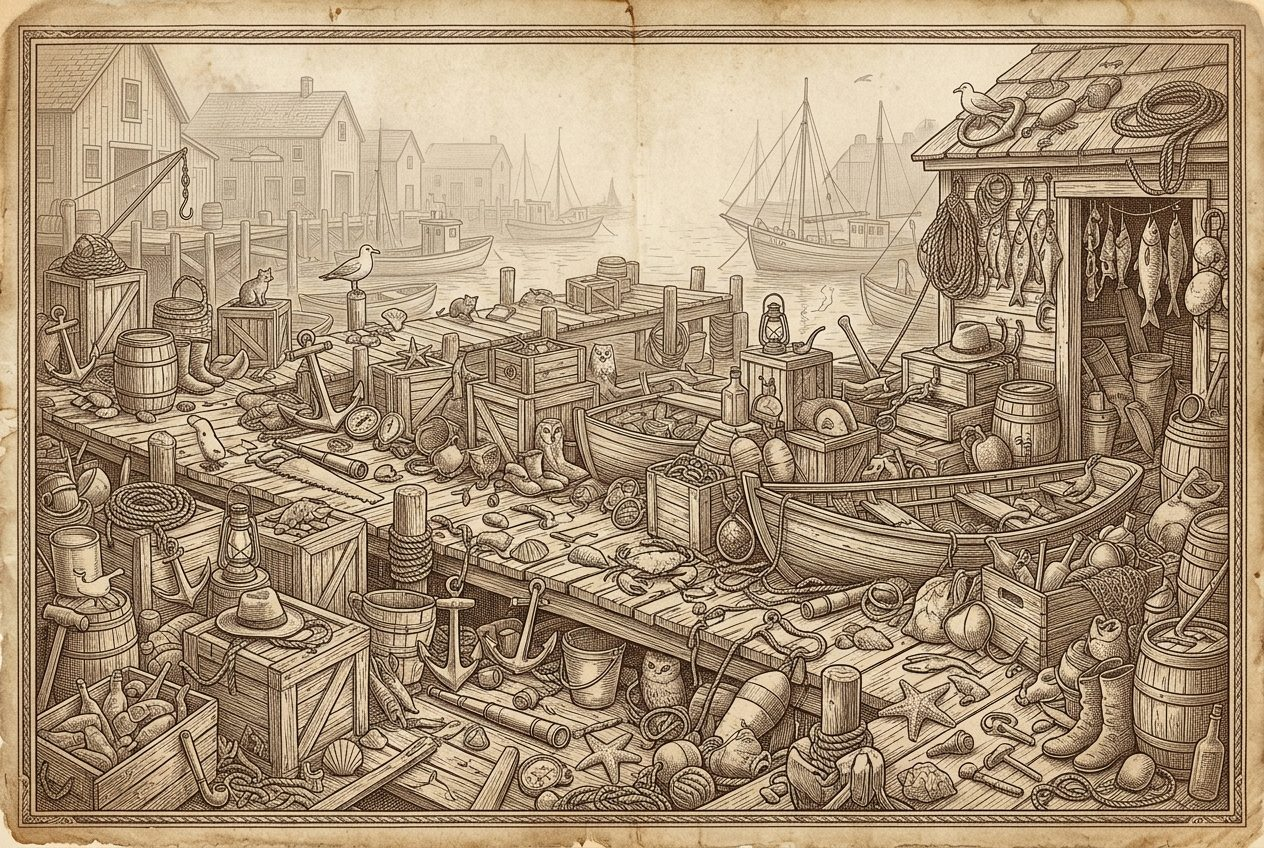
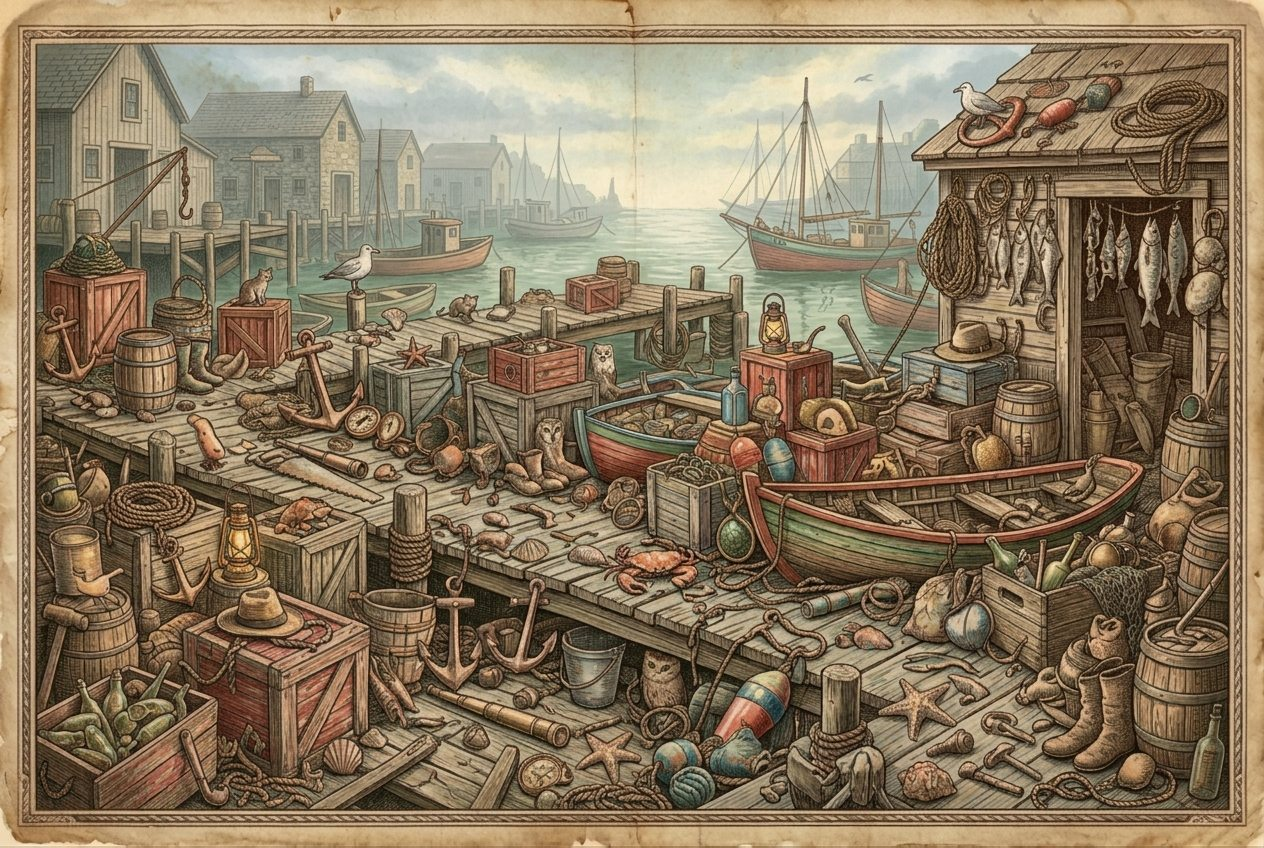
ver 1.66: the seek scenes in full colour
The six engraved seek pictures are coloured (Gemini, colour only), each
checked against the recorded item positions; a signature the colouring added
to the backstage's margin is taken out. A found item now gets a gold ring
and a soft glow instead of a watercolour wash, and the card's sprite is no
longer inked over the painted scene. Searches under way keep their lists.

diff --git a/index.html b/index.html
@@ -1648,7 +1648,7 @@ function layoutHidden(s, th) {
   if (all && !chosen.includes(all)) chosen[chosen.length - 1] = all;
   const T = chosen.map((it, n) => {
     const at = it.at.map(([x, y, r]) => ({ x: x * k + ox, y: y * k + oy, s: r * k / .55, src: [x, y, r] }));
-    return Object.assign({ t: n, e: it.id, ja: it.ja, at, all: it === all }, at[0]);
+    return Object.assign({ t: n, e: it.id, ja: it.ja, at, all: it === all, painted: true }, at[0]);
   });
   return { seed: s.seed, th, items: [], T, hidden: true };
 }
@@ -2948,18 +2948,21 @@ function drawItem(g, it) {
 }
 // A found item is coloured in with a watercolour wash, then its lines are re-inked on top.
 function drawFound(g, t) {
-  const col = WASH[(t.e.length * 7 + t.e.charCodeAt(0)) % WASH.length];
+  // The scenes are in full colour: a found thing gets a soft golden glow and a gold ring painted around it.
   const r = Math.max(30, t.s * .5);
   g.save();
-  g.globalCompositeOperation = 'multiply';
-  const gr = g.createRadialGradient(t.x, t.y, 0, t.x, t.y, r);
-  gr.addColorStop(0, col + '.8)');
-  gr.addColorStop(.65, col + '.55)');
-  gr.addColorStop(1, col + '0)');
+  const gr = g.createRadialGradient(t.x, t.y, r * .45, t.x, t.y, r * 1.15);
+  gr.addColorStop(0, 'rgba(255,214,120,0)');
+  gr.addColorStop(.7, 'rgba(255,214,120,.28)');
+  gr.addColorStop(1, 'rgba(255,214,120,0)');
   g.fillStyle = gr;
-  g.beginPath(); g.arc(t.x, t.y, r, 0, Math.PI * 2); g.fill();
+  g.beginPath(); g.arc(t.x, t.y, r * 1.15, 0, Math.PI * 2); g.fill();
+  g.lineWidth = Math.max(4, r * .09);
+  g.strokeStyle = 'rgba(40,24,6,.55)'; g.beginPath(); g.arc(t.x, t.y, r + g.lineWidth * .6, 0, Math.PI * 2); g.stroke();
+  g.strokeStyle = '#f0c860'; g.beginPath(); g.arc(t.x, t.y, r, 0, Math.PI * 2); g.stroke();
   g.restore();
-  drawItem(g, Object.assign({}, t, { a: 1 }));
+  // the painted scenes already hold the thing itself; re-inking the card's sprite on top would only blot it
+  if (!t.painted) drawItem(g, Object.assign({}, t, { a: 1 }));
 }
 
 let scn = null;
@@ -2972,7 +2975,7 @@ async function renderScene() {
   const ids = [...new Set(L.items.map(it => it.e))];
   let bg;
   try {
-    [bg] = await Promise.all([loadImg(`assets/${L.hidden ? L.th.hs : L.th.bg}.jpg`), ...ids.map(id => loadImg(findSrc(id)).then(im => { sprites[id] = im; }))]);
+    [bg] = await Promise.all([loadImg(`assets/${L.hidden ? L.th.hs : L.th.bg}.jpg?c=2`), ...ids.map(id => loadImg(findSrc(id)).then(im => { sprites[id] = im; }))]);
   } catch (e) {
     $('sload').textContent = '画像を読み込めませんでした。通信状態を確認して、もう一度開いてください。';
     return;
@@ -4099,7 +4102,7 @@ function hideTitle() {
   t.classList.add('gone');
   setTimeout(() => { t.hidden = true; }, 600);
 }
-const APP_VERSION = 'ver 1.65';   // shown on the title screen; bump with each release
+const APP_VERSION = 'ver 1.66';   // shown on the title screen; bump with each release
 function showTitle(hasSave) {
   $('tver').textContent = APP_VERSION;
   const t = $('title');

diff --git a/sw.js b/sw.js
@@ -1,7 +1,7 @@
 // Offline support for the home-screen install.
 // The page itself is network-first (so updates show up right away when online); images are cache-first.
 // Bump VERSION when assets change so old caches are dropped.
-const VERSION = 'rlyeh-v46';
+const VERSION = 'rlyeh-v47';
 self.addEventListener('install', e => {
   e.waitUntil(caches.open(VERSION).then(c => c.addAll(['./', 'index.html', 'manifest.webmanifest'])).then(() => self.skipWaiting()));
 });
